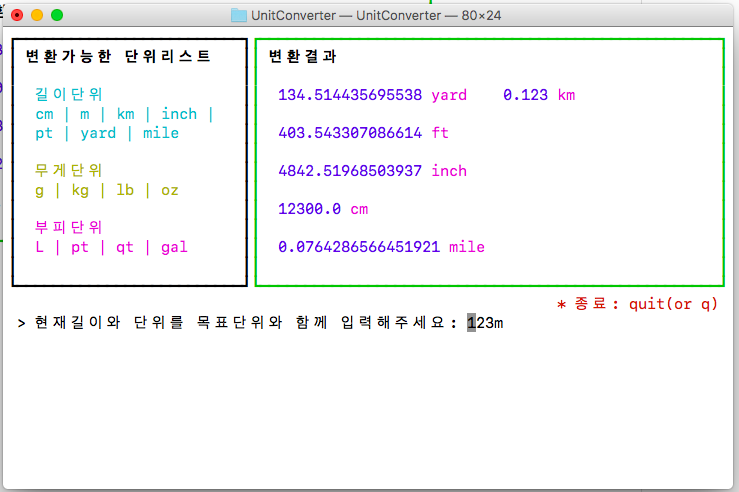
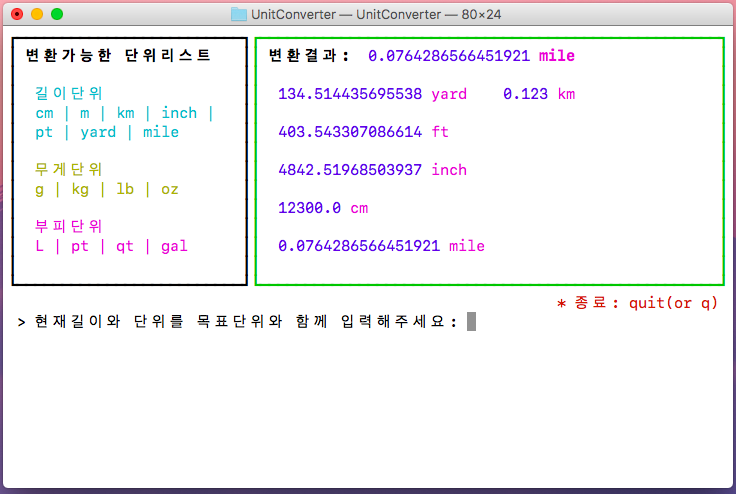
image changed

Changed region(s): [[0.0, 0.0, 1.0, 1.0], [0.1562, 0.4878, 0.25, 0.5183], [0.1562, 0.3659, 0.25, 0.3963]]

diff --git a/SwiftBasics/Day2/UnitConverter/Sources/UnitConverter/main.swift b/SwiftBasics/Day2/UnitConverter/Sources/UnitConverter/main.swift
@@ -13,6 +13,8 @@ import Foundation
 let lengthUnit: [String:Double] = ["cm": 1, "m": 100, "km": 100000, "inch": 2.54, "ft": 30.48, "yard": 91.44, "mile": 160934.4]
 let weightUnit: [String:Double] = ["g": 1, "kg": 1000, "lb": 453.592, "oz": 28.3495]
 let volumeUnit: [String:Double] = ["L": 1, "pt": 0.473176, "qt": 0.946353, "gal": 3.78541]
+// 결과값에서 경고('지원되지 않는 단위입니다.')를 구분하기 위한 문자.
+let warningEscape: String = "!"
 
 // 단위 프로토콜
 protocol UnitConvertible {
@@ -222,7 +224,7 @@ func convertUnit(from currValueWithUnit: String, to newUnit: String?)->(String, 
     if isUnitAvailable(currUnit, unitModel){
         // 파라미터로 받은 문자열에서 숫자부 탐색.
         guard let currDigitValue = searchDigitPart(from: currValueWithUnit, without: currUnit) else {
-            return ("지원되지 않는 단위입니다.", "")
+            return ("지원되지 않는 단위입니다", warningEscape)
         }
         
         // 한 개씩 변환할 때. 목표단위의 유무로 나눔.
@@ -231,6 +233,8 @@ func convertUnit(from currValueWithUnit: String, to newUnit: String?)->(String, 
             if isUnitAvailable(destUnit, unitModel){
                 // 목표단위로 변환한 결과값을 문자열로 받아 저장.
                 result = getNew(unitType, from: currDigitValue, of: currUnit, to: destUnit)
+            }else{
+                result = ("지원되지 않는 단위입니다", warningEscape)
             }
         }else{
             // 목표단위가 없는 경우. 목표단위는 nil이 전달됨.
@@ -239,8 +243,8 @@ func convertUnit(from currValueWithUnit: String, to newUnit: String?)->(String, 
         return result
     }
     
-    // 위에 해당하지 않는 경우, 지원하지 않는 단위로 판단. 경고 메시지 반환.
-    return ("지원되지 않는 단위입니다.", "")
+    // 단위부가 지원되지 않는 경우, 경고 메시지 반환.
+    return ("지원되지 않는 단위입니다", warningEscape)
 }
 
 // [메인2] 사용자 입력값을 숫자부, 단위부로 나누어 모든 단위로 변환. returns 변환결과의 숫자부, 단위부 튜플 배열.
@@ -258,7 +262,7 @@ func convertToAllUnit(from currValueWithUnit: String)->[(String, String)]{
             result = getAllNew(unitType, from: currDigitValue, of: currUnit)
         }
     }else{
-        result = [("지원되지 않는 단위입니다.","")]
+        result = [("지원되지 않는 단위입니다",warningEscape)]
     }
     return result
 }
@@ -280,9 +284,15 @@ func execute(_ inputLine: String){
         convertResult = convertUnit(from: trimmedInput[0], to: trimmedInput[1])
     }
     // 숫자부와 단위부 색상 나눔.
-    let afterConvert: String = "\(ANSICode.text.blue) \(convertResult.0) \(ANSICode.text.redBright)\(convertResult.1)"
+    var afterConvert: String = ""
+    if convertResult.1 == warningEscape{
+        // 지원되지 않는 단위인 경우, 빨간색 표시.
+        afterConvert = "\(ANSICode.text.redBright) ✖ \(convertResult.0) ✖"
+    }else{
+        afterConvert = "\(ANSICode.text.blue) \(convertResult.0) \(ANSICode.text.magentaBright)\(convertResult.1)"
+    }
     // "변환결과:" 텍스트 우측에 결과값 출력.
-    print("\(ANSICode.home)\(ANSICode.cursor.move(row: 2, col: 40))\(ANSICode.eraseEndLine)\(afterConvert)")
+    print("\(ANSICode.cursor.move(row: 2, col: 40))\(ANSICode.eraseEndLine)\(afterConvert)")
 }
 
 // 사용자 입력 값으로 메인함수 실행. 모든 변환결과 출력.
@@ -301,10 +311,11 @@ func executeAll(_ inputLine: String){
             currRow = 4
         }
         // 결과값 출력 위치. 숫자부와 단위부 색상 나눔. 이전출력은 지움.
-        print("\(ANSICode.home)\(ANSICode.cursor.move(row: currRow, col: currCol))\(ANSICode.eraseEndLine)\(ANSICode.text.blue) \(result.0) \(ANSICode.text.magenta)\(result.1)")
+        print("\(ANSICode.cursor.move(row: currRow, col: currCol))\(ANSICode.eraseEndLine)\(ANSICode.text.blue) \(result.0) \(ANSICode.text.magenta)\(result.1)")
         currRow += 2        // 두 행(row) 내려감.
     }
 }
+
 
 print("\(ANSICode.clear)\(ANSICode.home)")
 // 변환가능한 단위리스트 출력 영역.
